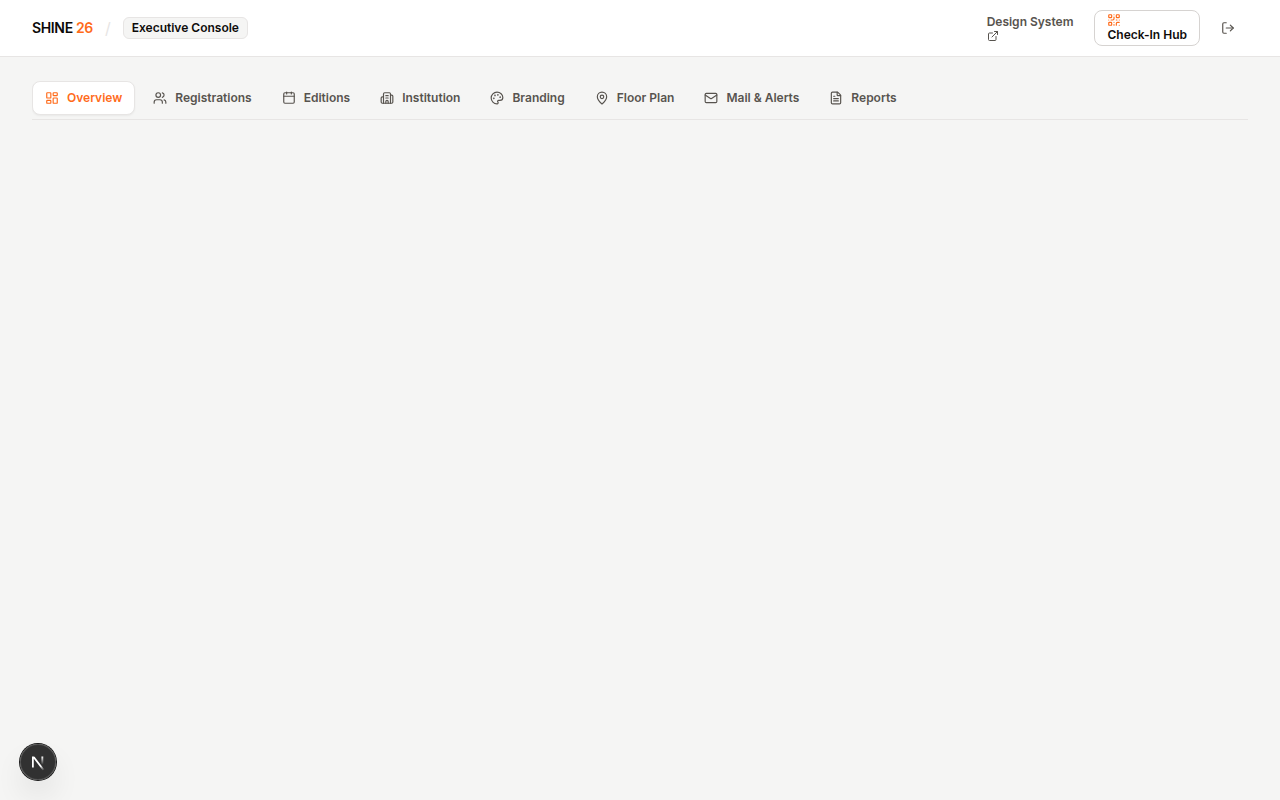
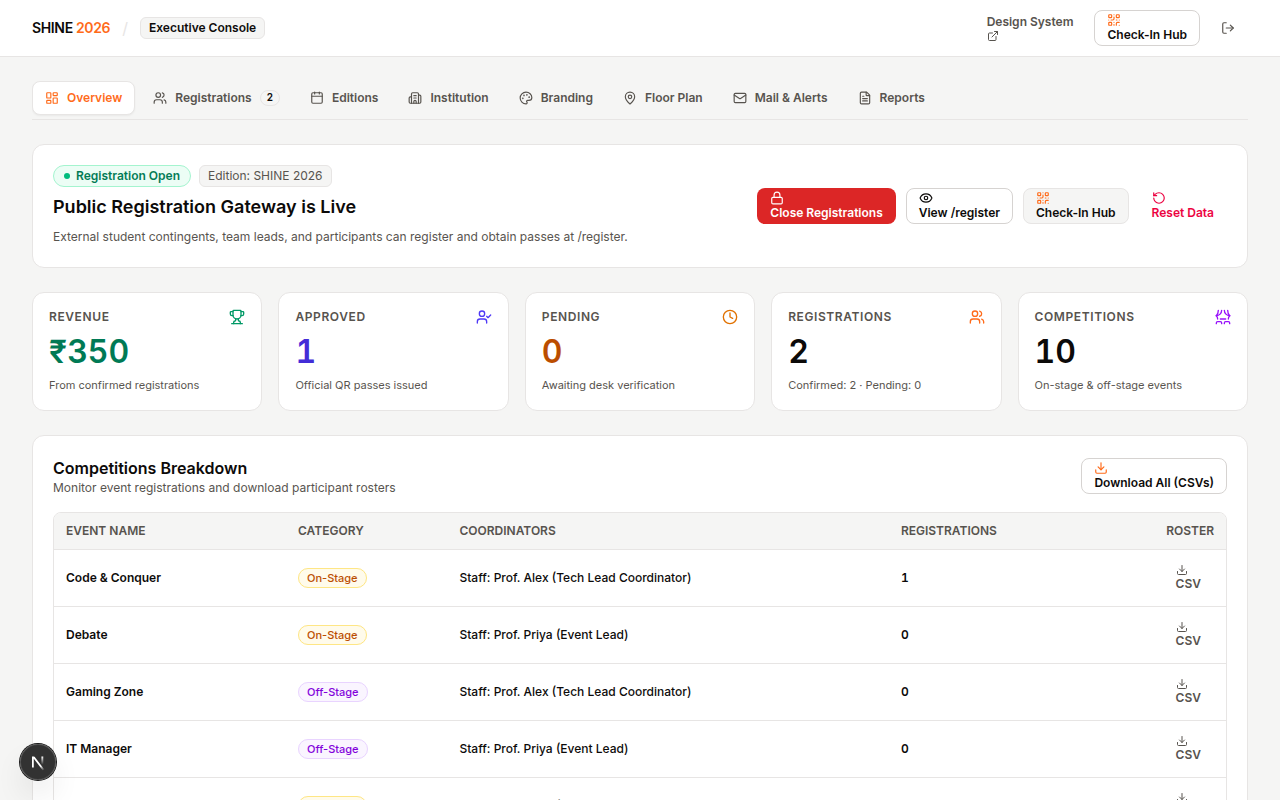
fix(admin): wire real-time admin API endpoints in useAdminData and update admin screenshot

diff --git a/src/app/admin/hooks/useAdminData.ts b/src/app/admin/hooks/useAdminData.ts
@@ -126,16 +126,34 @@ export function useAdminData() {
   const loadAdminData = useCallback(async () => {
     try {
       setLoading(true);
-      const res = await fetch("/api/admin/overview");
-      const data = await safeJson(res);
+      const [statsRes, regRes, edRes, smtpRes, historyRes] = await Promise.all([
+        fetch("/api/admin/stats"),
+        fetch("/api/admin/registrations"),
+        fetch("/api/admin/edition"),
+        fetch("/api/admin/smtp"),
+        fetch("/api/admin/email/history"),
+      ]);
 
-      if (data.success) {
-        setStats(data.stats);
-        setEventBreakdown(data.eventsBreakdown || []);
-        setRegistrations(data.registrations || []);
-        setEditions(data.editions || []);
+      const [statsData, regData, edData, smtpData, historyData] = await Promise.all([
+        safeJson(statsRes, { success: false, stats: null, eventBreakdown: [] }),
+        safeJson(regRes, { success: false, registrations: [] }),
+        safeJson(edRes, { success: false, editions: [] }),
+        safeJson(smtpRes, { success: false, smtp: null }),
+        safeJson(historyRes, { success: false, history: [] }),
+      ]);
 
-        const active = data.editions?.find((e: any) => e.isActive) || data.editions?.[0] || null;
+      if (statsData.success) {
+        setStats(statsData.stats);
+        setEventBreakdown(statsData.eventBreakdown || []);
+      }
+
+      if (regData.success) {
+        setRegistrations(regData.registrations || []);
+      }
+
+      if (edData.success && edData.editions) {
+        setEditions(edData.editions);
+        const active = edData.editions.find((e: any) => e.isActive) || edData.editions[0] || null;
         setActiveEdition(active);
 
         if (active) {
@@ -193,24 +211,25 @@ export function useAdminData() {
             setGraphData(active.waypointGraph);
           }
         }
+      }
 
-        if (data.smtp) {
-          setSmtpForm({
-            host: data.smtp.host || "",
-            port: "465",
-            user: data.smtp.user || "",
-            password: "",
-            fromName: data.smtp.fromName || "",
-            fromEmail: data.smtp.fromEmail || "",
-            hasPassword: Boolean(data.smtp.hasPassword),
-          });
+      if (smtpData.success && smtpData.smtp) {
+        setSmtpForm({
+          host: smtpData.smtp.host || "",
+          port: "465",
+          user: smtpData.smtp.user || "",
+          password: "",
+          fromName: smtpData.smtp.fromName || "",
+          fromEmail: smtpData.smtp.fromEmail || "",
+          hasPassword: Boolean(smtpData.smtp.hasPassword),
+        });
+        if (smtpData.emailTriggers) {
+          setEmailTriggers(smtpData.emailTriggers);
         }
-        if (data.emailTriggers) {
-          setEmailTriggers(data.emailTriggers);
-        }
-        if (data.broadcastHistory) {
-          setBroadcastHistory(data.broadcastHistory);
-        }
+      }
+
+      if (historyData.success && historyData.history) {
+        setBroadcastHistory(historyData.history);
       }
     } catch (err: any) {
       toast.error(err.message || "Failed to load dashboard data");
